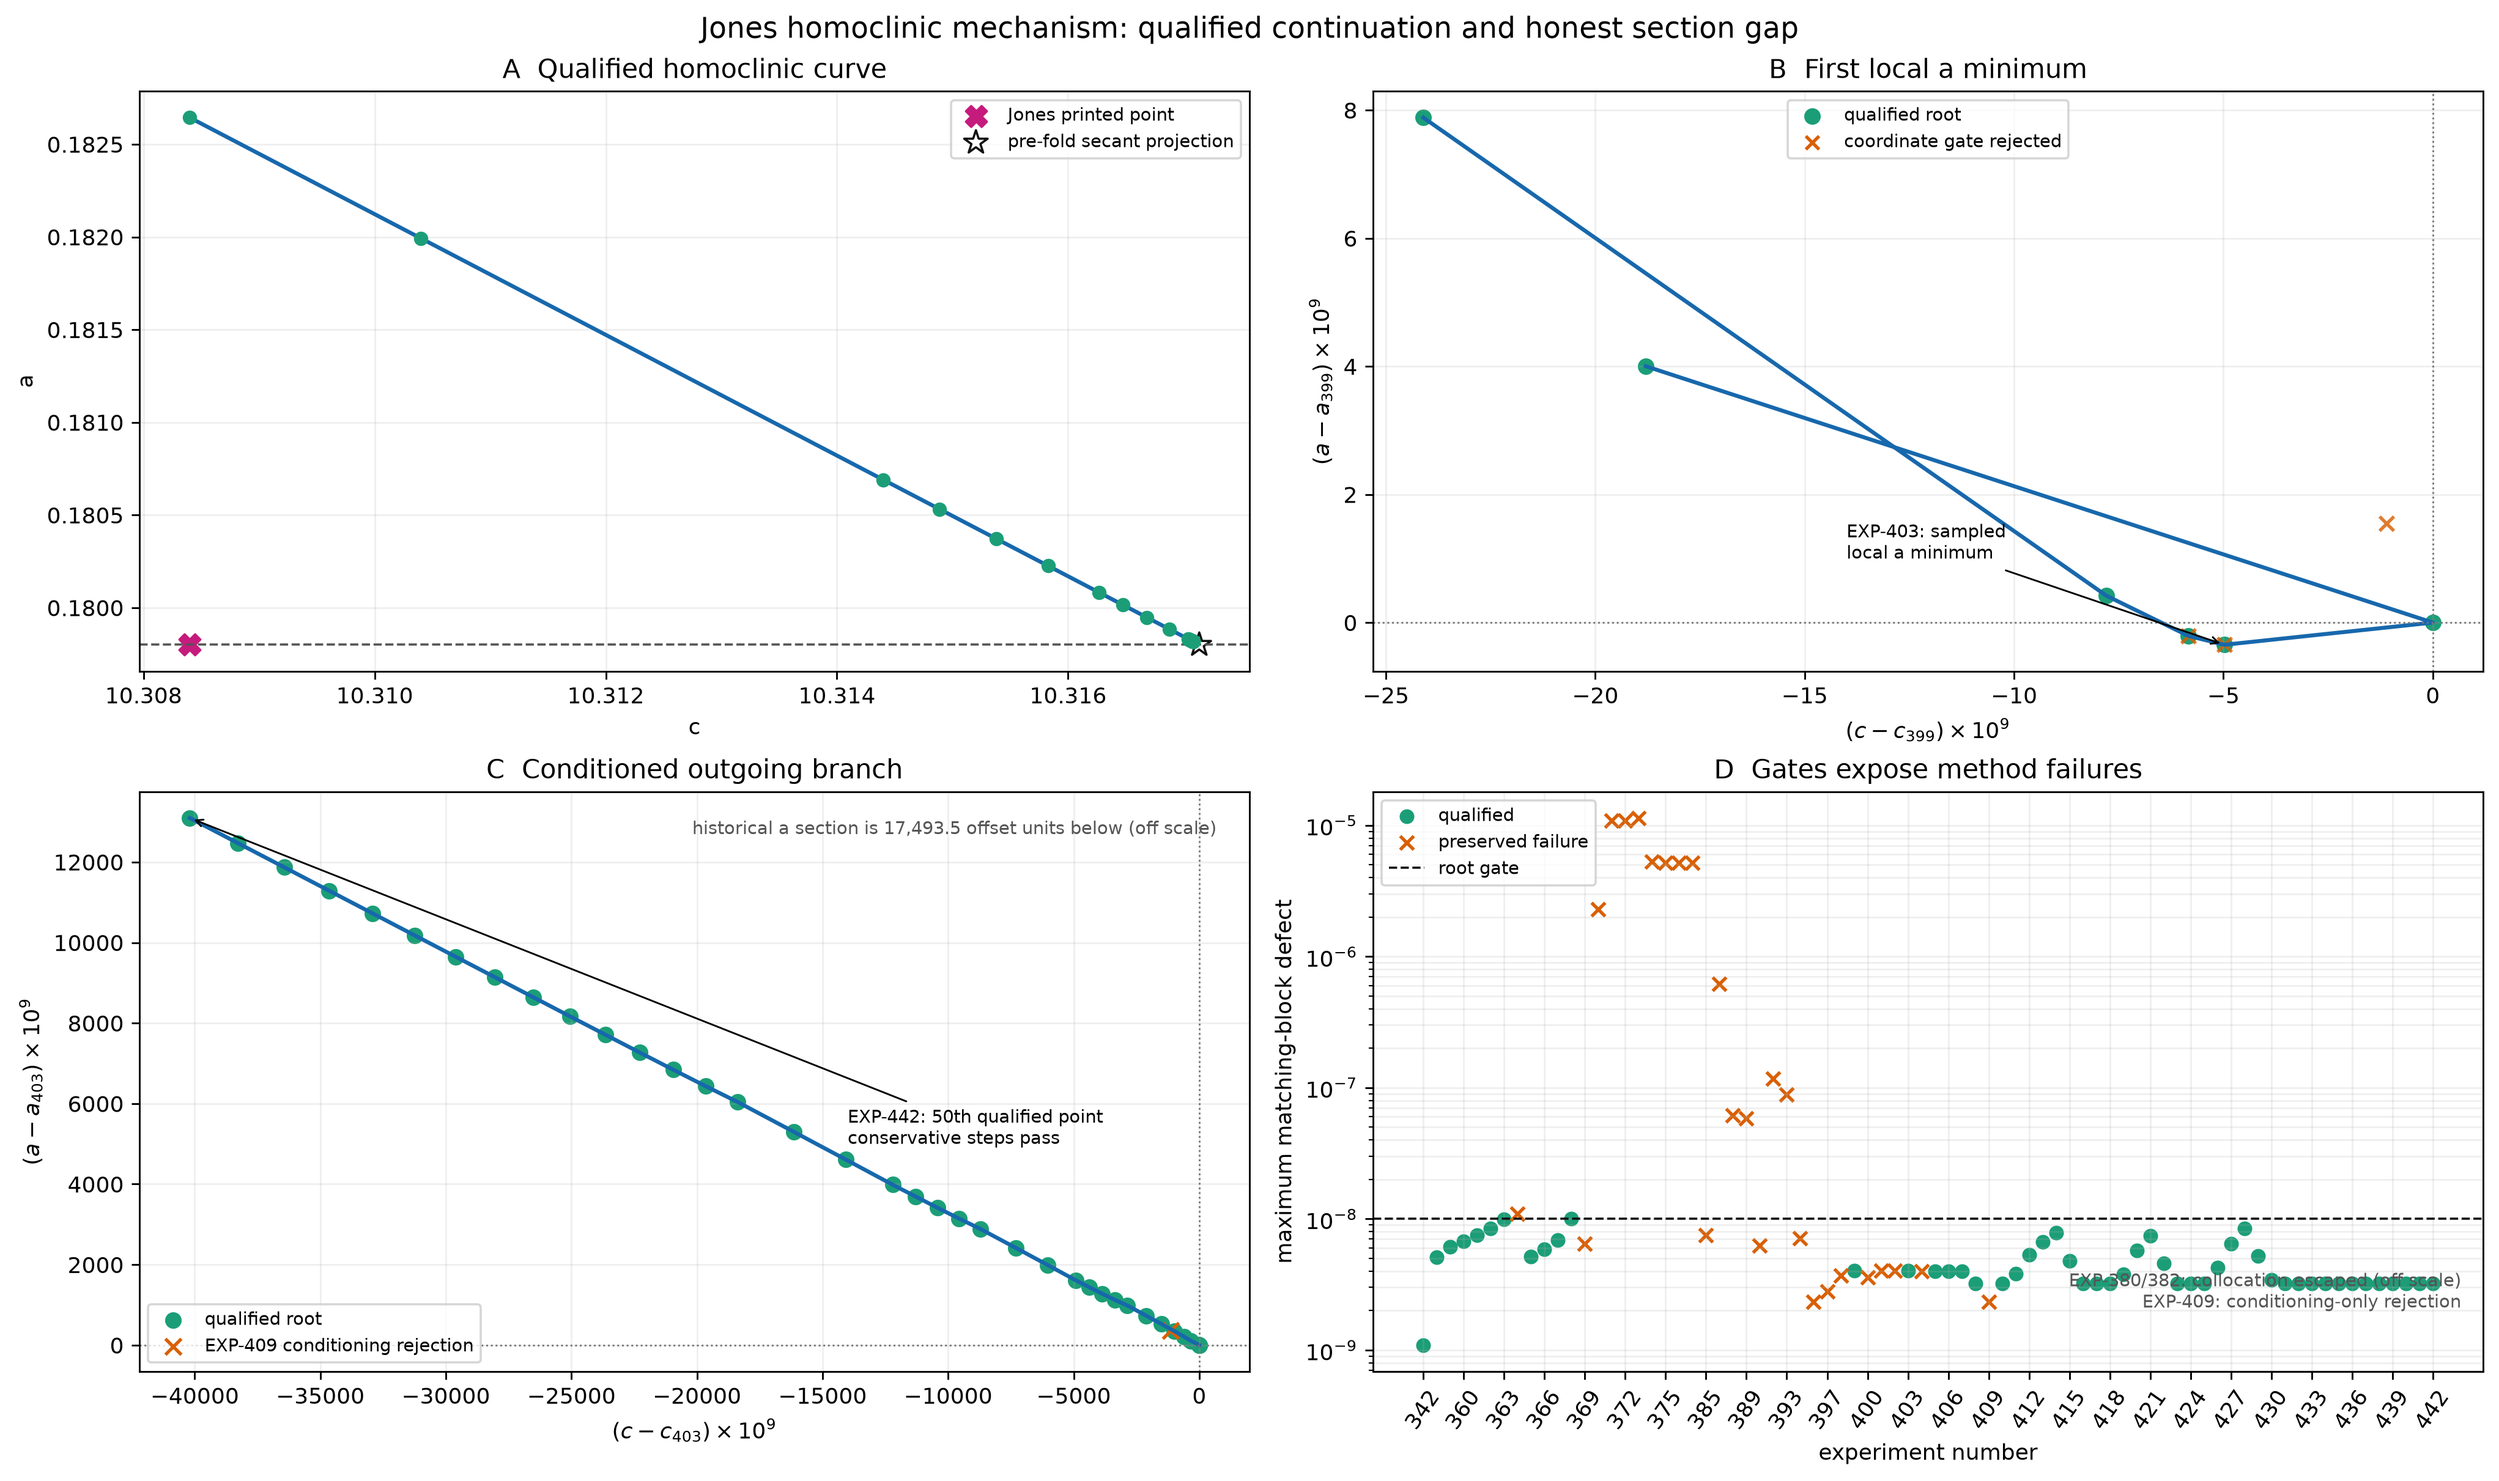
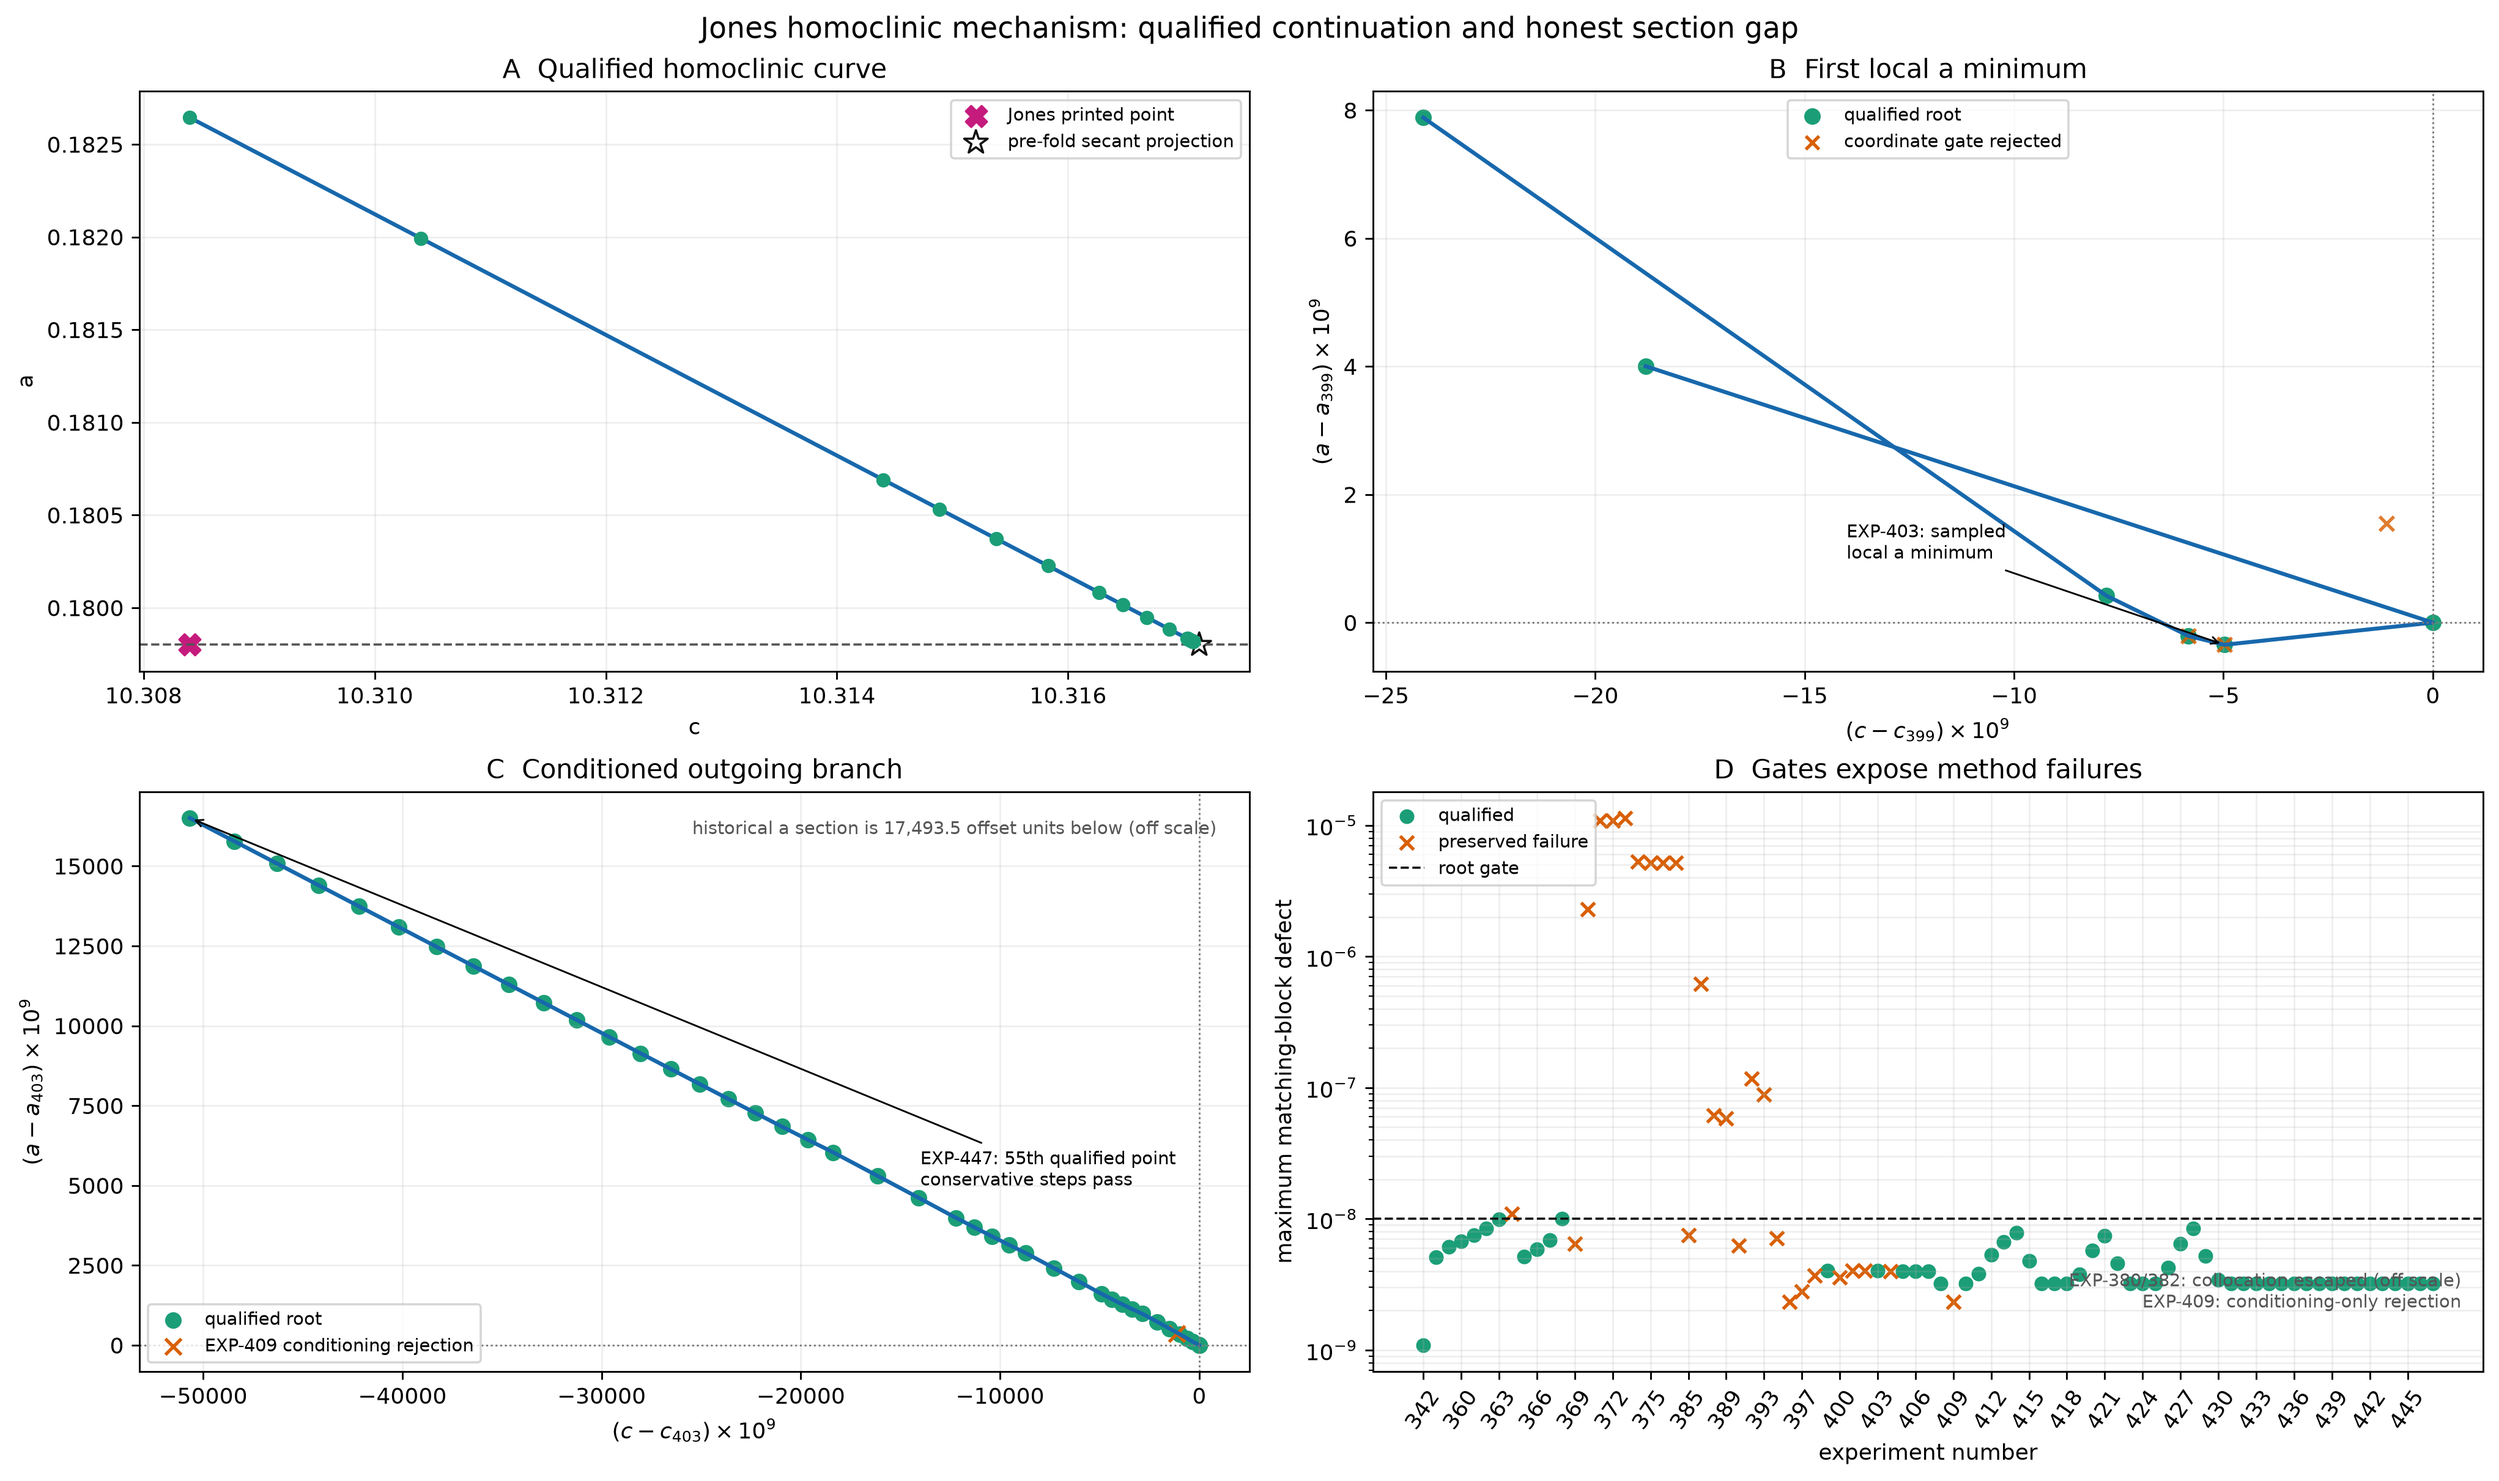
Render fifty-five-point homoclinic checkpoint

diff --git a/docs/updates/2026-08-25-exp342-382-homoclinic-curve.md b/docs/updates/2026-08-25-exp342-382-homoclinic-curve.md
@@ -1,11 +1,11 @@
-# EXP-342--442: qualified homoclinic curve and honest section gap
+# EXP-342--447: qualified homoclinic curve and honest section gap
 
 ## What is now established
 
 The revised-coordinate homoclinic candidate is no longer an isolated numerical
 root.  EXP-342, EXP-347, and EXP-350 qualify the initial point and two
-natural-continuation successors; 47 chained pseudo-arclength roots bring the
-qualified total to 50.  Every accepted root passes the prospective `1e-8`
+natural-continuation successors; 52 chained pseudo-arclength roots bring the
+qualified total to 55.  Every accepted root passes the prospective `1e-8`
 maximum matching-block gate.  The closest sampled point is EXP-403:
 
 ```text
@@ -13,8 +13,8 @@ maximum matching-block gate.  The closest sampled point is EXP-403:
 historical a gap = 1.7493536856150183e-5
 ```
 
-The last accepted point, EXP-442, is
-`(a,c)=(0.17983058838257687,10.317041306658568)`.  The pre-fold EXP-367/368
+The last accepted point, EXP-447, is
+`(a,c)=(0.1798339982049874,10.317030833792156)`.  The pre-fold EXP-367/368
 secant projects a local crossing at `c=10.317135236348886`, but the resolved
 local turn invalidates treating that projection as a monotone-`c` prediction.
 
@@ -43,15 +43,17 @@ multiple shooting.
 
 ## Manuscript checkpoint
 
-Figure 5 (`fig30-exp342-382-homoclinic-continuation.png`) now shows all 50
-qualified roots through EXP-442, the sampled local minimum, the adaptive
+Figure 5 (`fig30-exp342-382-homoclinic-continuation.png`) now shows all 55
+qualified roots through EXP-447, the sampled local minimum, the adaptive
 outgoing arm, and all 26 preserved failures. Its receipt schema is
-`butterfly.exp342-442-homoclinic-continuation-figure.v1`; the image SHA-256 is
[1 lines of base64/hex data omitted]
+`butterfly.exp342-447-homoclinic-continuation-figure.v1`; the image SHA-256 is
[1 lines of base64/hex data omitted]
+and the receipt SHA-256 is
[1 lines of base64/hex data omitted]
 The abstract, results, conclusion, claim ledger, and finding record use the
-same 50-root count and explicitly withhold the exact intersection claim.
-The rebuilt manuscript remains 55 pages (10,185,678 bytes), with SHA-256
[1 lines of base64/hex data omitted]
+same 55-root count and explicitly withhold the exact intersection claim.
+The rebuilt manuscript remains 55 pages (10,183,234 bytes), with SHA-256
[1 lines of base64/hex data omitted]
 The LaTeX log contains no undefined references, citation warnings, or
 overfull/underfull boxes; rendered pages 1, 11, 49, and 50 pass visual
 inspection.

diff --git a/docs/updates/2026-08-30-exp447-fifty-five-point-checkpoint.md b/docs/updates/2026-08-30-exp447-fifty-five-point-checkpoint.md
@@ -1,0 +1,34 @@
+# EXP-447: fifty-five-point homoclinic checkpoint
+
+EXP-447 passed every prospectively frozen gate in two evaluations, adding the
+fifty-fifth qualified point to the Jones homoclinic continuation:
+
+```text
+(a, c) = (0.1798339982049874, 10.317030833792156)
+maximum block defect = 3.1999507416356106e-9
+minimum singular value = 9.000945034453671e-10
+node-boundary margin = 0.9927636535572404
+```
+
+The chain now contains 52 gauge-aligned pseudo-arclength roots and 55 qualified
+roots overall. Thirty-eight tangent-recomputed outgoing steps after EXP-408
+remain smooth and interior. EXP-403 is still the sampled local minimum and the
+closest root to the historical `a=0.1798` section. The continued arm therefore
+strengthens the nearby homoclinic-mechanism claim but does not recover the
+printed coordinate or establish a later return, global nonintersection,
+uniqueness, or computer-assisted existence.
+
+The receipt-bound four-panel figure now includes all 55 roots and all 26
+preserved failures. It is bound to clean source commit `b5de457046416e58df190fc702bc93dda7de407e`:
+
+```text
+figure SHA-256  26c5c9ec4ad9af6c51b2f2c796ceacda4b1985378e7db87d31743563c9560cd9
+receipt SHA-256 964327fc2bbf07083be95405ebab729c9b150d94ebd60e757bef71b6b4dbb71a
+```
+
+The rebuilt 55-page manuscript is 10,183,234 bytes with SHA-256
[1 lines of base64/hex data omitted]
+Its log has no undefined reference, citation, overfull-box, or underfull-box
+warning. Rendered pages 1, 11, 49, and 50 and the full-resolution source figure
+passed visual inspection. All 401 tests and the 10/10/10 bibliography checks
+also pass.

diff --git a/docs/TODO.md b/docs/TODO.md
@@ -1240,8 +1240,9 @@ acceptance evidence exists in tests, receipts, or a cited experiment record.
   fifty-third. EXP-446 passes and adds the fifty-fourth. EXP-447 is
   prospectively frozen at the same conservative step with exact EXP-445/446
   bindings. EXP-447 passes and adds the fifty-fifth point, triggering the
-  receipt-bound 55-point figure and manuscript checkpoint. Regenerate and
-  visually inspect both artifacts before continuing the branch.
+  receipt-bound 55-point figure and manuscript checkpoint. Both artifacts are
+  regenerated, hash-bound, and visually inspected. Freeze the next unchanged-
+  gate conservative successor while conditioning remains below twice its floor.
 - [ ] **P2-003 — Validated numerics.** Interval validation of selected decisive
   orbits, windows, crossings, and forcing/covering statements.
 - [ ] **P2-004 — Two-system qualification.** Add two structurally different
